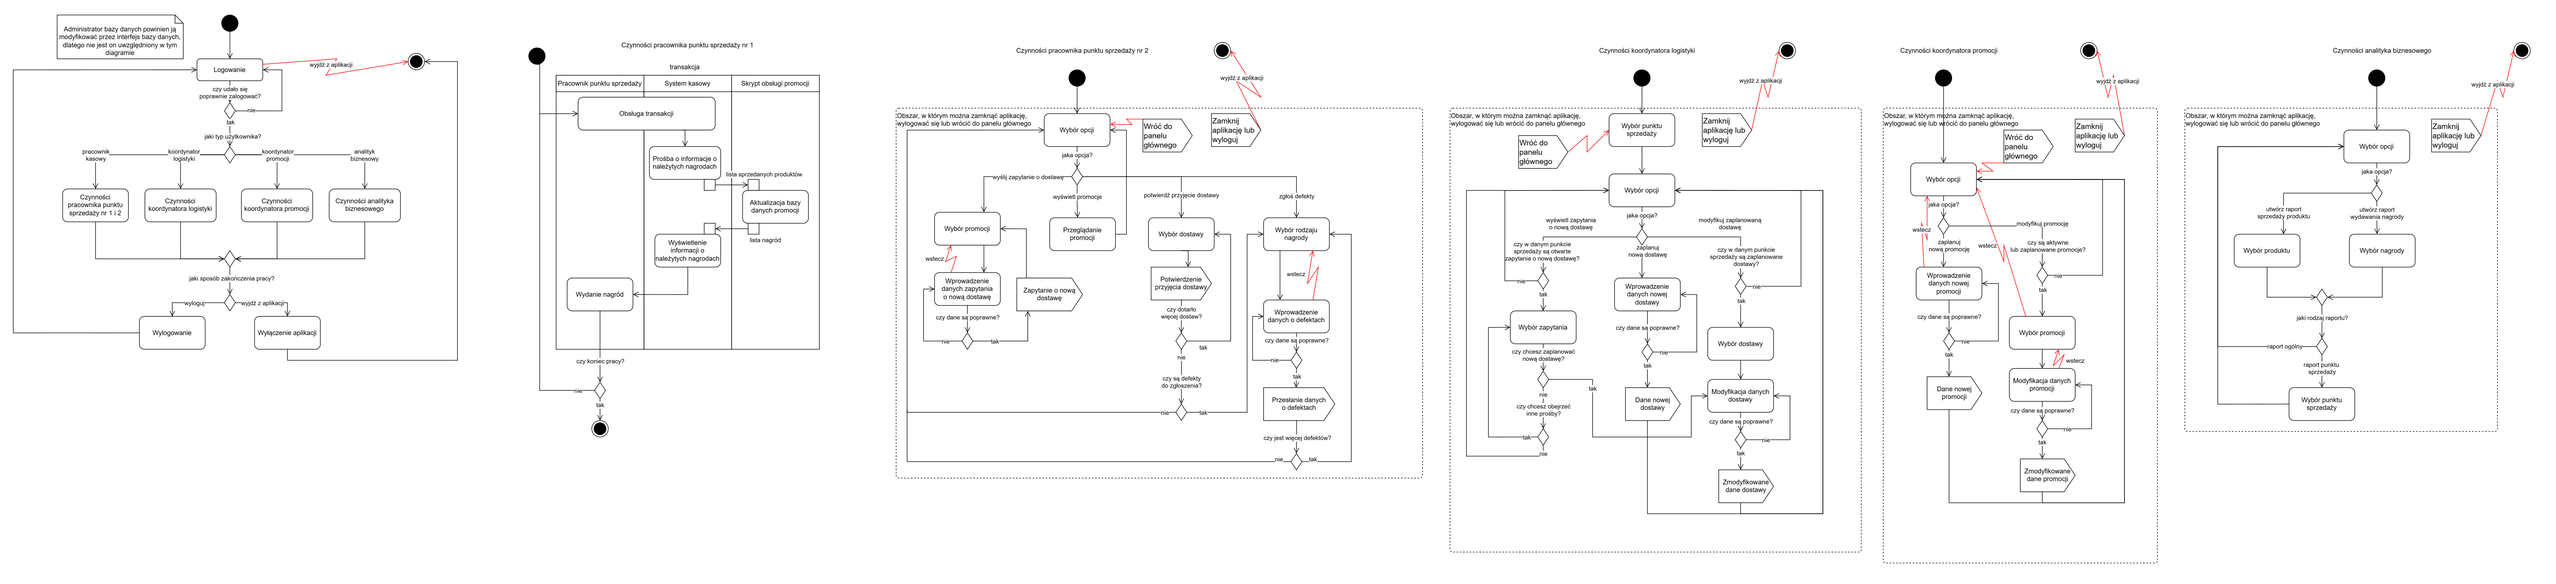
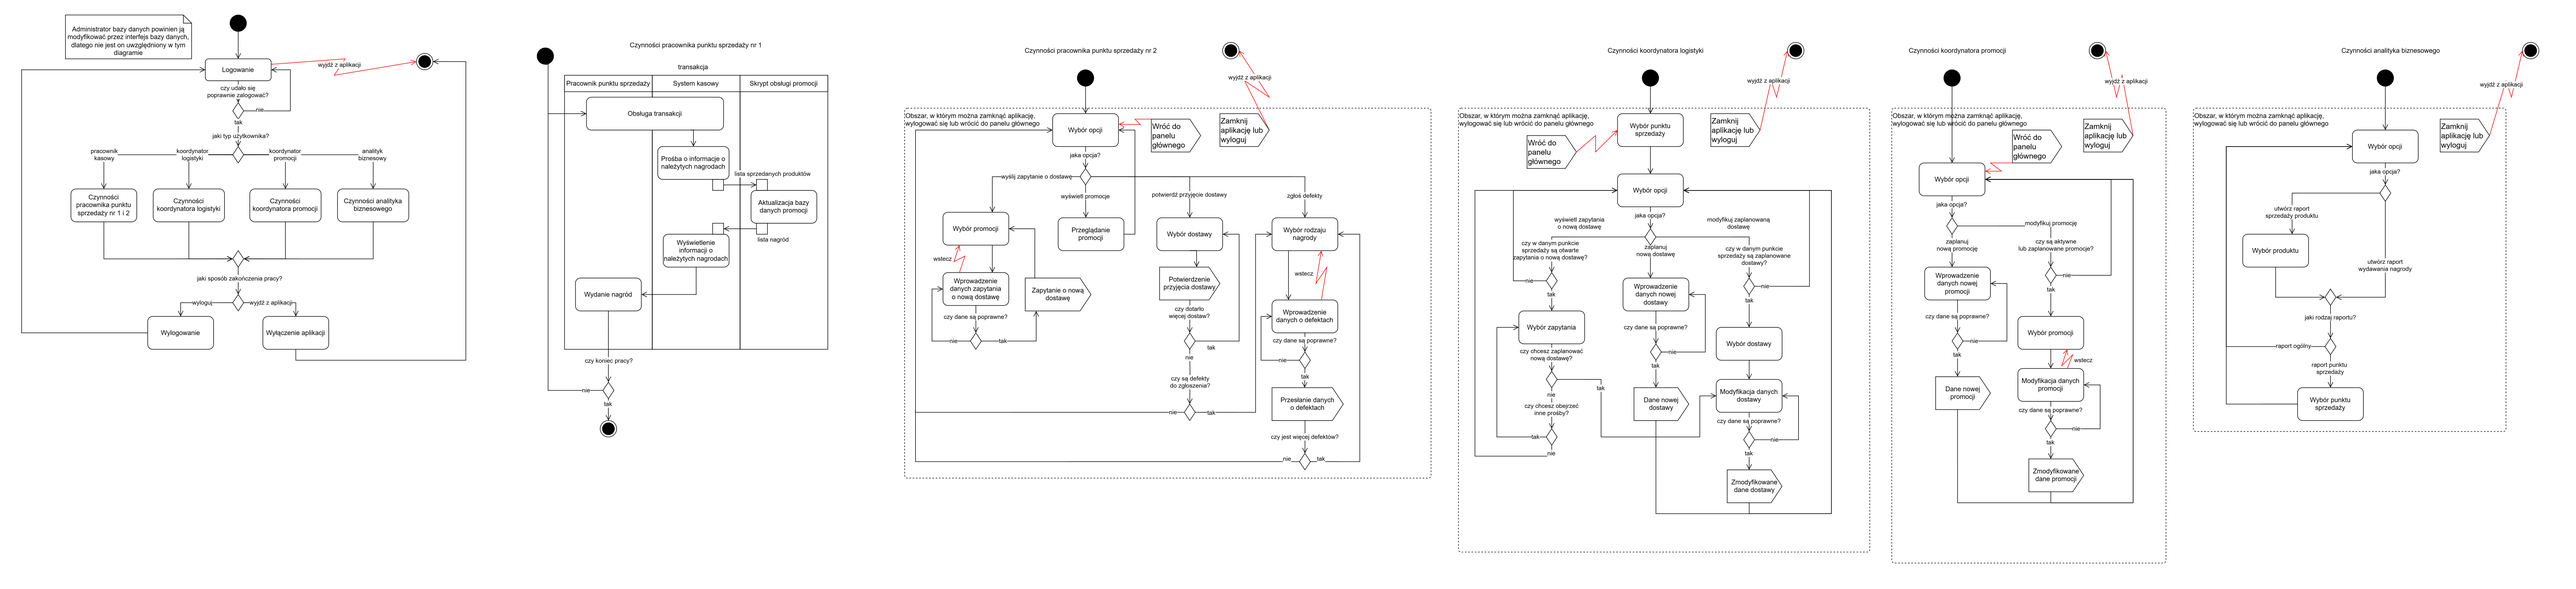
updated activity diagrams and SRS

diff --git a/src/main/java/app/controllers/control_panel/promotions_coordinator_section/PromotionsMainController.java b/src/main/java/app/controllers/control_panel/promotions_coordinator_section/PromotionsMainController.java
@@ -1,0 +1,59 @@
+package app.controllers.control_panel.promotions_coordinator_section;
+
+import app.controllers.shared.DynamicContentController;
+import app.controllers.shared.MainController;
+import app.model.PromotionModel;
+import app.service.SceneManager;
+import app.service.control_panel.promotions_coordinator_section.PromotionsMainService;
+
+import javafx.event.ActionEvent;
+import javafx.fxml.FXML;
+import javafx.scene.control.TableView;
+import javafx.scene.layout.*;
+
+
+
+public class PromotionsMainController implements DynamicContentController {
+    private MainController mainController;
+    @Override
+    public void setMainController(app.controllers.shared.MainController mainController) { // funkcja, która pozwala przypisać główny kontroler do tego kontrolera
+        this.mainController = mainController;
+    }
+    @FXML
+    private StackPane tablePane; // stackPane do ładowania tabeli
+    @FXML
+    private BorderPane contentPane;
+    private TableView<PromotionModel> PromotionsTableView;
+    public void initialize() { //inicjalizacja głównego Panelu tabelką z promocjami
+        System.out.println("kanapki");
+        try {
+            PromotionsTableView = PromotionsMainService.getAllPromotions();
+            tablePane.getChildren().add(PromotionsTableView);
+
+        } catch (Exception e) {
+            e.printStackTrace();
+        }
+    }
+
+    public void goToCreatePromotion(ActionEvent event) {
+        SceneManager.addScene("create_promotion");
+        mainController.showDynamicContent("create_promotion");
+    }
+
+
+    public void goToModifyPromotion(ActionEvent event) {
+        int result = PromotionsMainService.setPromotion(PromotionsTableView.getSelectionModel().getSelectedItem());
+        if (result == 0) {
+            SceneManager.addScene("modify_promotion");
+            mainController.showDynamicContent("modify_promotion");
+        }
+    }
+
+    public void deletePromotion(ActionEvent event) {
+        int result = PromotionsMainService.deletePromotion(PromotionsTableView.getSelectionModel().getSelectedItem());
+        if (result == 0) {
+            PromotionsTableView.getItems().remove(PromotionsTableView.getSelectionModel().getSelectedItem());
+        }
+    }
+
+}

diff --git a/src/main/java/app/db/repo/RepositorySQL.java b/src/main/java/app/db/repo/RepositorySQL.java
@@ -15,9 +15,7 @@ import javafx.collections.ObservableList;
 
 import java.sql.Timestamp;
 import java.time.LocalDate;
-import java.sql.Connection;
 import java.sql.Date;
-import java.sql.DriverManager;
 import java.util.ArrayList;
 import java.util.List;
 import java.sql.PreparedStatement;
@@ -282,9 +280,25 @@ public class RepositorySQL {
         }
     }
 
+    public static boolean deletePromotion(Integer promotionID) {
+        String querySQL = """
+                DELETE
+                FROM Promotions
+                WHERE PromotionID = ?
+                """;
+        try (PreparedStatement stmt = MySQLConnection.conn.prepareStatement(querySQL)){
+            stmt.setInt(1, promotionID);
+            int rs = stmt.executeUpdate();
+            return rs == 1;
+        } catch (SQLException err) {
+            System.err.println("Error while deleting promotion: " + err.getMessage());
+            return false;
+        }
+    }
+
     public static UserModel findUser(String email) {
         String querySQL = "SELECT * FROM Users WHERE email = ?";
-        try (PreparedStatement stmt = MySQLConnection.conn.prepareStatement(querySQL)) { // ZAMIANA TUTAJ
+        try (PreparedStatement stmt = MySQLConnection.conn.prepareStatement(querySQL)) {
             stmt.setString(1, email);
             ResultSet rs = stmt.executeQuery();
             if (rs.next()) {
@@ -311,7 +325,7 @@ public class RepositorySQL {
             SET status = 'completed' 
             WHERE DeliveryID = ?
             """;
-        try(PreparedStatement stmt = MySQLConnection.conn.prepareStatement(querySQL)) { // ZAMIANA TUTAJ
+        try(PreparedStatement stmt = MySQLConnection.conn.prepareStatement(querySQL)) {
             stmt.setString(1, ID);
             return stmt.executeUpdate();
         } catch (SQLException e) {

diff --git a/src/main/java/app/service/control_panel/promotions_coordinator_section/PromotionsMainService.java b/src/main/java/app/service/control_panel/promotions_coordinator_section/PromotionsMainService.java
@@ -1,12 +1,42 @@
 package app.service.control_panel.promotions_coordinator_section;
 
+import app.db.repo.RepositorySQL;
 import app.model.PromotionModel;
+import app.service.Alerts;
+import app.service.Session;
 import app.service.TableService;
 import javafx.scene.control.TableView;
 
 public class PromotionsMainService {
-
     public static TableView<PromotionModel> getAllPromotions() {
         return TableService.getAllPromotionsTable();
+    }
+
+    public static int setPromotion(PromotionModel promotion) {
+        if (promotion == null) {
+            Alerts.warnSelectToModify("promotion");
+            return -1; // Error: No promotion selected
+        }
+        else {
+            Session.setPromotion(promotion);
+            return 0; // Success: Promotion set
+        }
+    }
+
+    public static int deletePromotion(PromotionModel promotion) {
+        if (promotion == null) {
+            Alerts.warnSelectToDelete("promotion");
+            return -1; // Error: No promotion selected
+        }
+        else {
+            boolean result = RepositorySQL.deletePromotion(promotion.getID());
+            if (result) {
+                Alerts.confirmDelete("Promotion");
+                return 0; // Success: Promotion deleted
+            } else {
+                Alerts.warnFailedToDelete("promotion");
+                return -1; // Error: Failed to delete promotion
+            }
+        }
     }
 }

diff --git a/docs/Software Requirements Specification.tex b/docs/Software Requirements Specification.tex
@@ -201,8 +201,8 @@ Analityk biznesowy, który zajmuje się analizą efektów promocji na sprzedaż 
     \item \textbf{Raport produktu}:
     Ilustruje on na wykresach słupkowych liczbę sprzedaży danego produktu w jednym roku w poszczególnych miesiącach.
     Może on być generowany dla całej sieci handlowej lub dla poszczególnych punktów sprzedaży.
-    \item \textbf{Raport nagrody}:
-    Ilustruje on na wykresach słupkowych liczbę wydań danej nagrody w w jednym roku w poszczególnych miesiącach.
+    \item \textbf{Raport nagród}:
+    Ilustruje on na wykresach słupkowych liczbę wydań nagród w jednym roku w poszczególnych miesiącach.
     Może on być generowany dla całej sieci handlowej lub dla poszczególnych punktów sprzedaży.
 \end{itemize}
 

diff --git a/src/main/java/app/service/SceneManager.java b/src/main/java/app/service/SceneManager.java
@@ -38,7 +38,7 @@ public class SceneManager {
             case "branch": panelFxml = PanelList.getFXMLFile("branch"); break;
             case "Analysis": panelFxml = PanelList.getFXMLFile("Analysis"); break;
             case "logistics_main": panelFxml = PanelList.getFXMLFile("logistics_main"); break;
-            case "rewards": panelFxml = PanelList.getFXMLFile("rewards"); break;
+            case "rewards": panelFxml = PanelList.getFXMLFile("promotions_main"); break;
             default: throw new IllegalArgumentException("Nieznany panel");
         }
         try { // Tutaj pobieramy nowy fxml, i ładujemy go, oraz przypisujemy tej scenie jej kontroler "główny" czyli kontroler naszej sceny bazowej

diff --git a/src/main/java/app/model/PanelList.java b/src/main/java/app/model/PanelList.java
@@ -19,7 +19,6 @@ public class PanelList {
         result.put("delivery_panel", "/view/branch_panel/delivery_panel.fxml");
         result.put("report_product", "/view/branch_panel/report_panel.fxml");
         result.put("rewards_table", "/view/branch_panel/table_rewards_panel.fxml");
-        // result.put("promotions_table_scene", "/view/branch_panel/discount_panel_table_promotions.fxml");
 
         result.put("logistics_main", "/view/control_panel/logistics_coordinator_section/logistics_main_panel.fxml");
         result.put("plan_delivery", "/view/control_panel/logistics_coordinator_section/plan_delivery_panel.fxml");

diff --git a/src/main/java/app/Main.java b/src/main/java/app/Main.java
@@ -15,7 +15,6 @@ public class Main extends Application {
         // but also the weeek starts on Monday
         Locale.setDefault(Locale.UK);
         SceneManager.setStage(primaryStage);
-        SceneManager.addScene("branch");
         SceneManager.addScene("login");
         SceneManager.showScene("login");
 

diff --git a/src/main/java/app/controllers/control_panel/promotions_coordinator_section/ModifyPromotionController.java b/src/main/java/app/controllers/control_panel/promotions_coordinator_section/ModifyPromotionController.java
@@ -1,4 +1,4 @@
-package app.controllers.control_panel.promotion_coordinator_section;
+package app.controllers.control_panel.promotions_coordinator_section;
 
 import app.controllers.shared.DynamicContentController;
 import app.controllers.shared.MainController;

diff --git a/src/main/java/app/controllers/control_panel/promotions_coordinator_section/CreatePromotionController.java b/src/main/java/app/controllers/control_panel/promotions_coordinator_section/CreatePromotionController.java
@@ -1,4 +1,4 @@
-package app.controllers.control_panel.promotion_coordinator_section;
+package app.controllers.control_panel.promotions_coordinator_section;
 
 public class CreatePromotionController {
     // TODO: Implement logic for creating rewards
